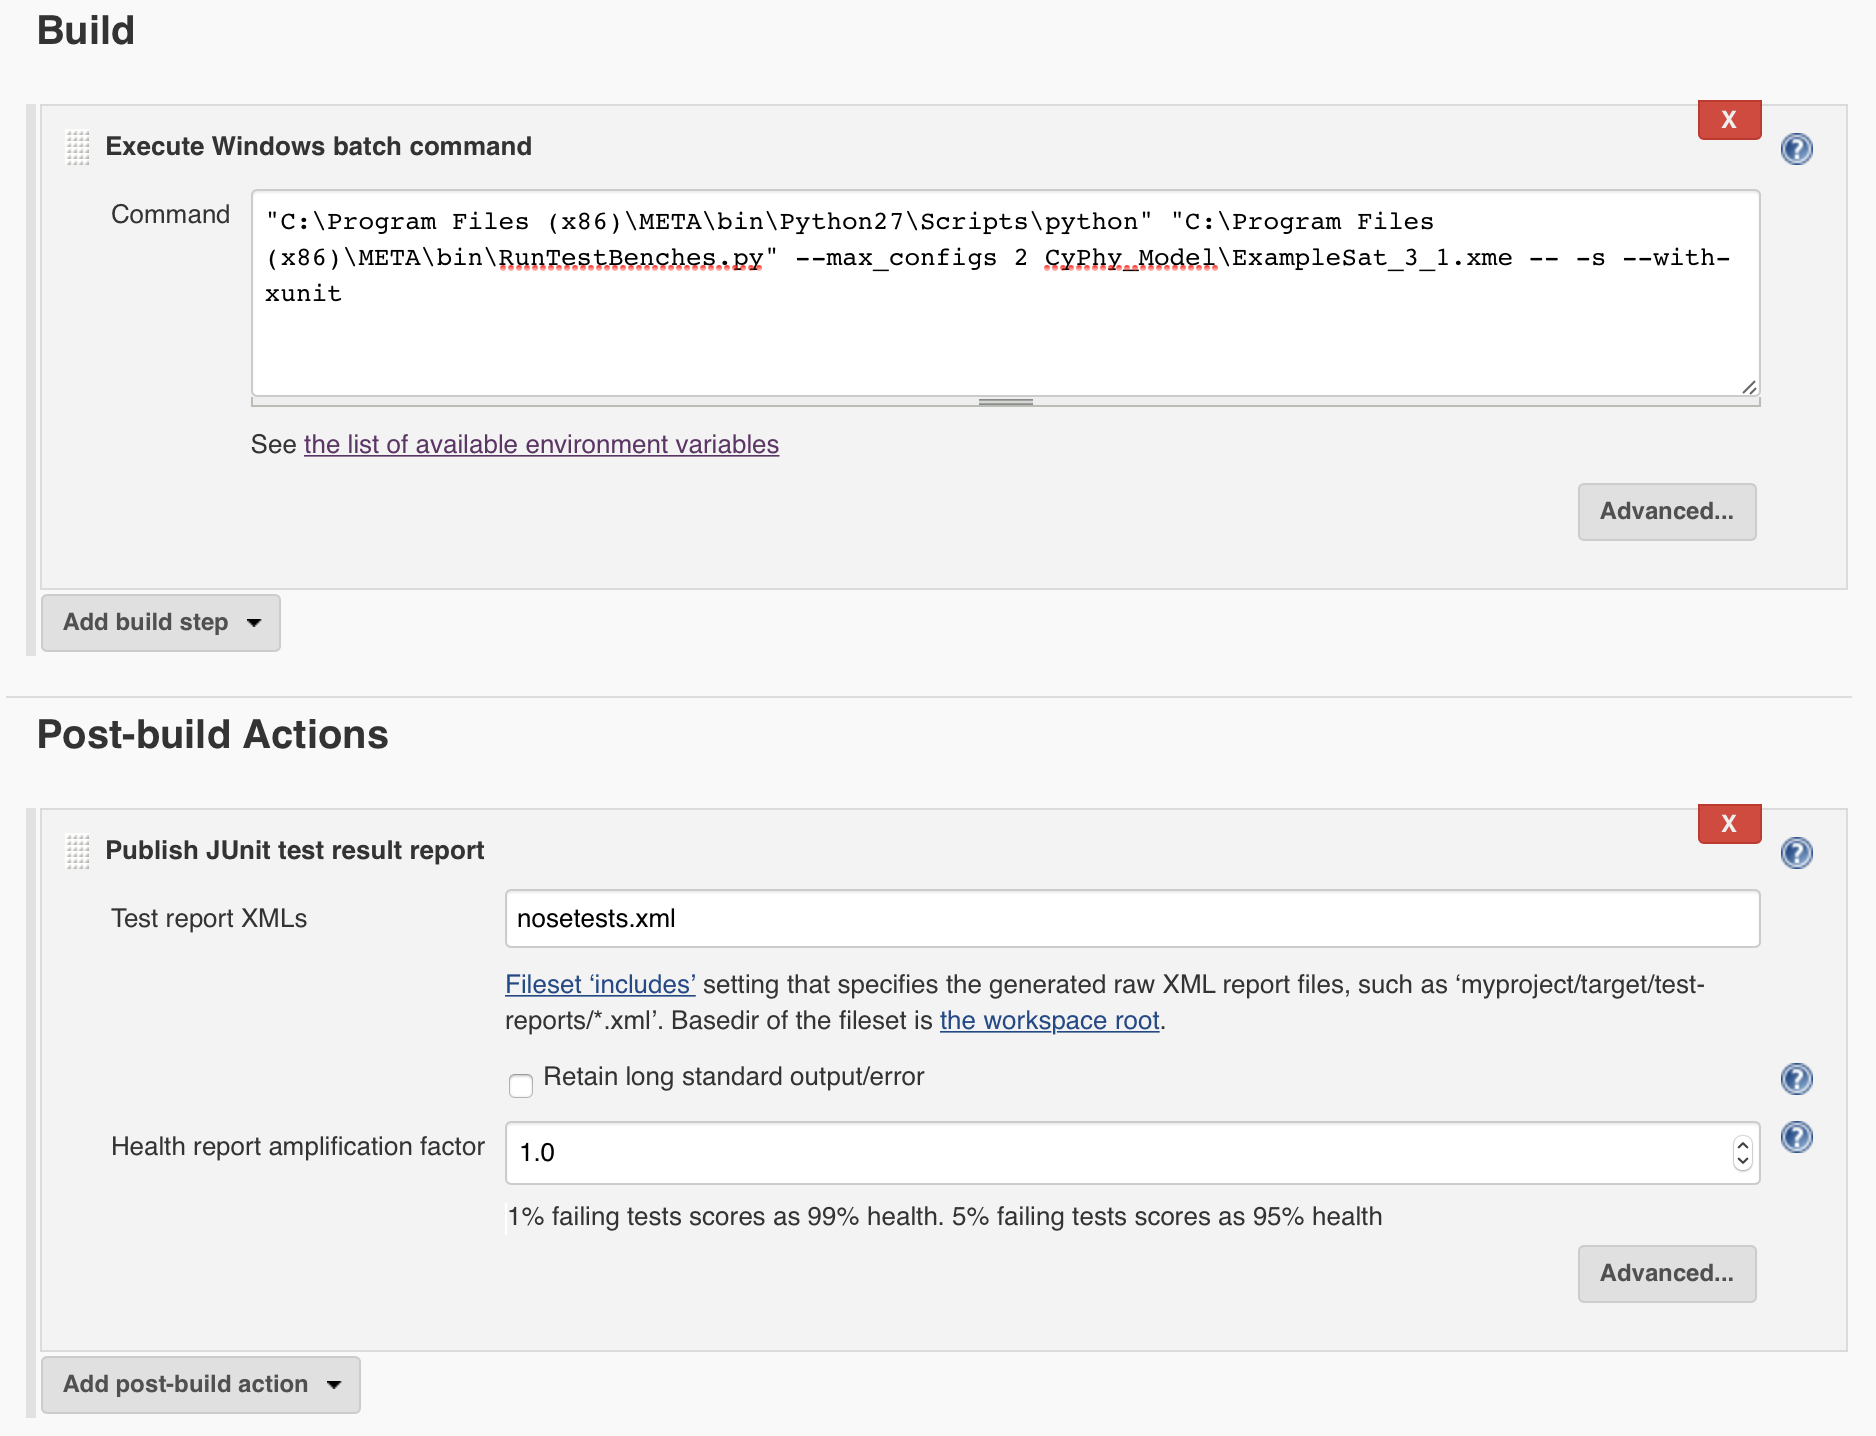
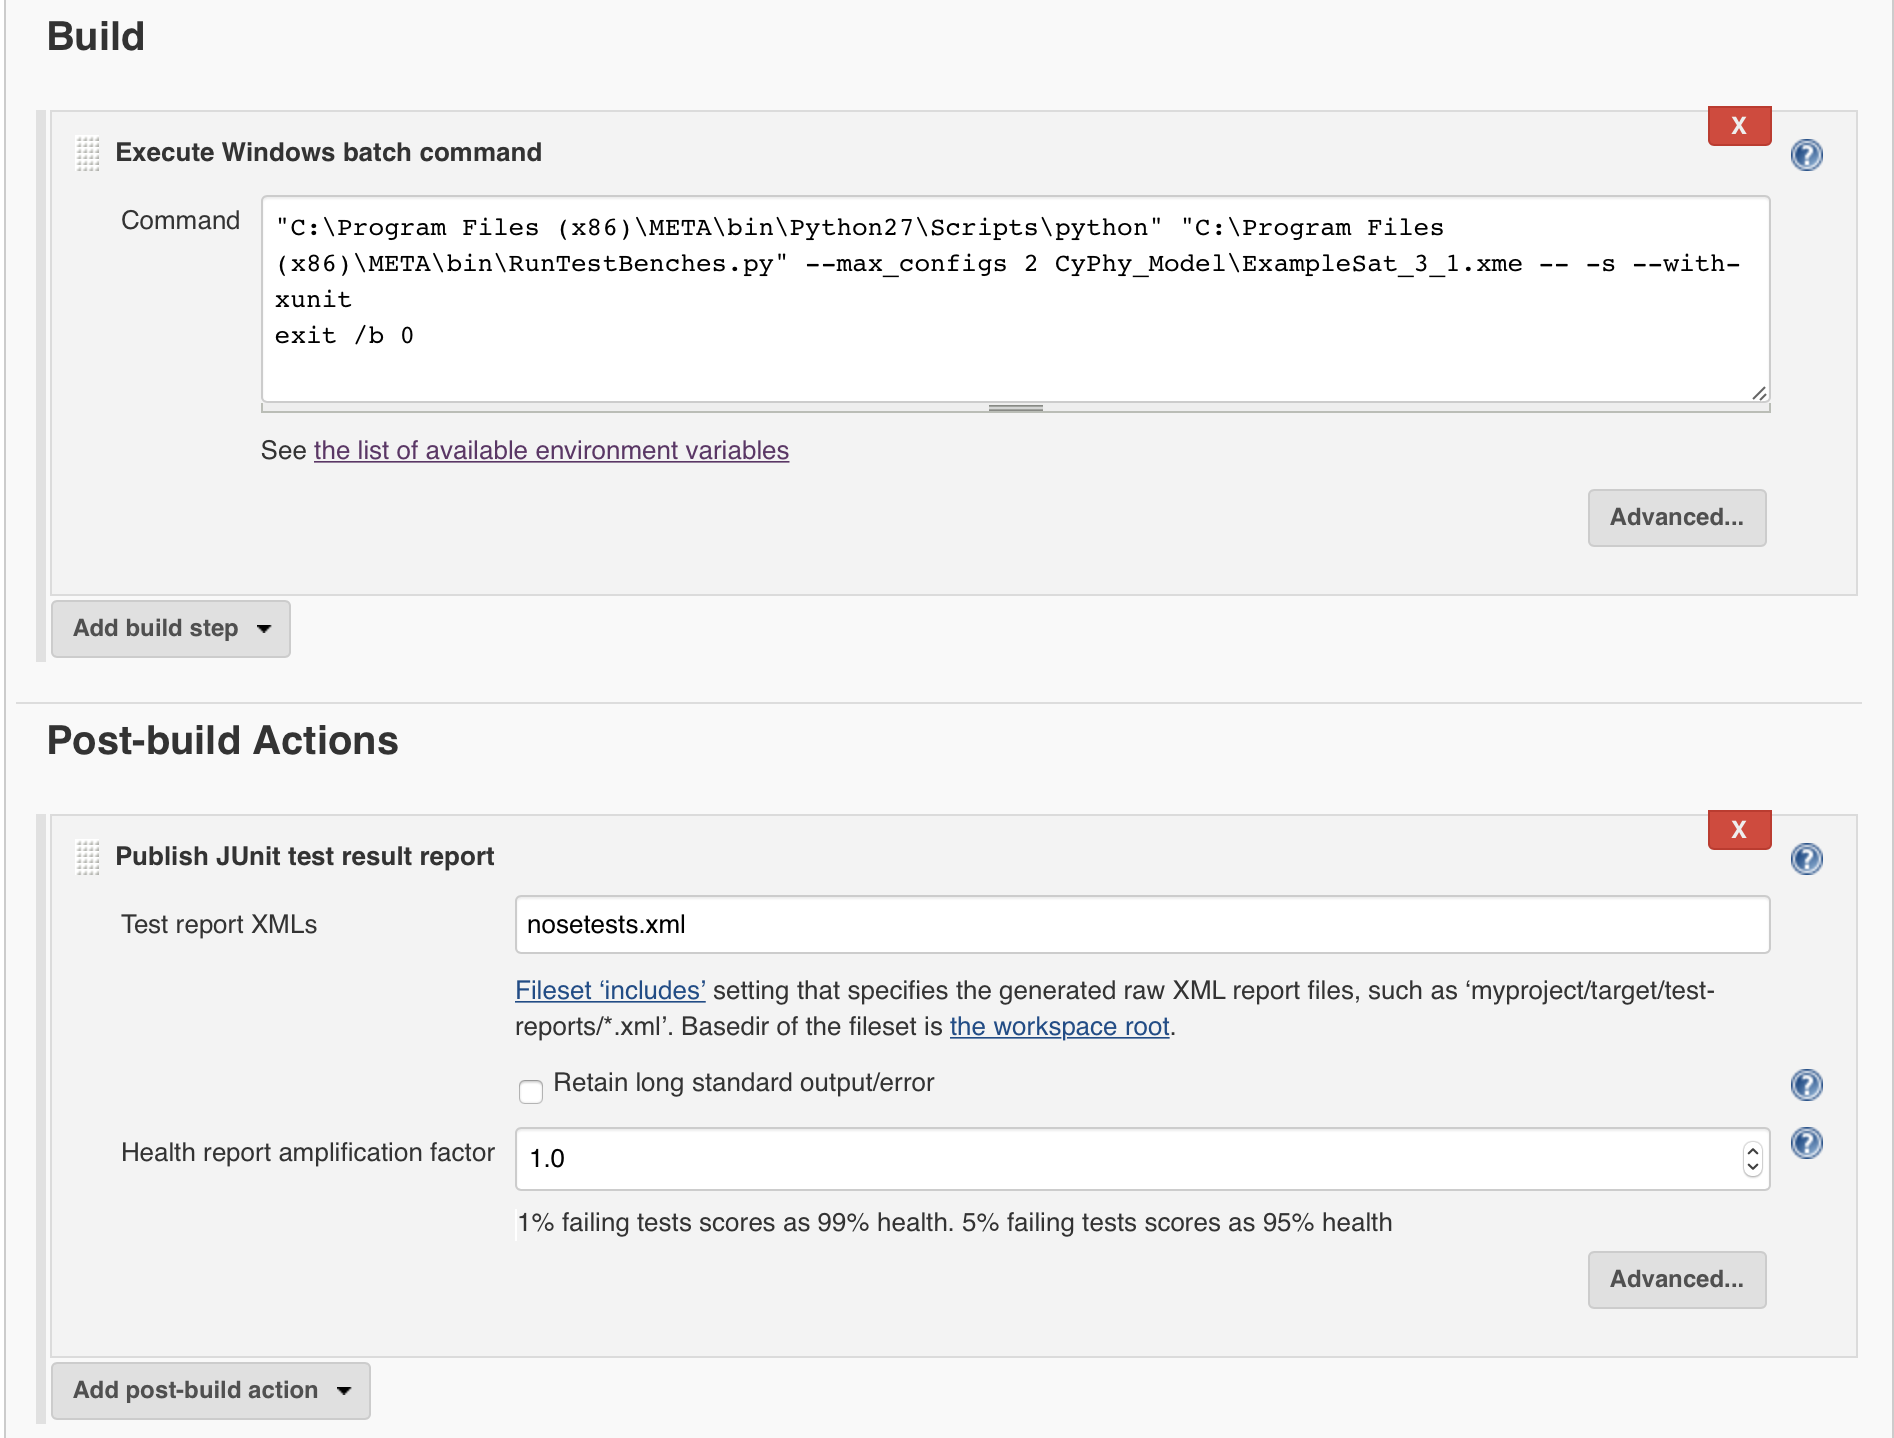
Add notes about test report

diff --git a/docs/doc/09-utilities/03-ContinuousIntegration.md b/docs/doc/09-utilities/03-ContinuousIntegration.md
@@ -18,6 +18,7 @@ Add an **Execute Windows batch command** build step to the Jenkins job.
 
 ~~~~~~~~~{.cmd}
 "C:\Program Files (x86)\META\bin\Python27\Scripts\python" "C:\Program Files (x86)\META\bin\RunTestBenches.py" --max_configs 2 CyPhy_Model\ExampleSat_3_1.xme -- -s --with-xunit
+exit /b 0
 ~~~~~~~~~
 
 Let's break down this command:
@@ -30,10 +31,15 @@ Part | Description
 `--` | Parameters after this mark are passed to the Python *nose* testing framework
 `-s` | Don’t capture stdout (any stdout output will be printed immediately)
 `--with-xunit` | Produce a JUnit-compatible XML file as output
+`exit /b 0` | This causes a build with out-of-spec values to be marked as "Unstable". Otherwise, it will be marked as "Failed", which makes it hard to distinguish from cases where the tests could not run.
 
 We must also add a **Publish JUnit test result report** Post-build Action to the Jenkins job, telling it to grab the `nosetests.xml` test report.
 
 ![](images/12-04-BuildAndPostBuild.png)
+
+Test reports in Jenkins include a list of tests, markings for those passing and failing, and duration measurements for the time it took to conduct the test. For failed tests, status messages indicate the nature and reason for failure.
+
+![](images/12-04-TestReport.png)
 
 ### Configuring the OpenMETA Model
 By default, the automation script will run each Test Bench and inform Jenkins if any of them fail to run. However, the model creator can add more detail, setting target and threshold values for Test Bench parameters. If the Test Bench results fail to meet these targets, the test report will mark them as failing tests.
